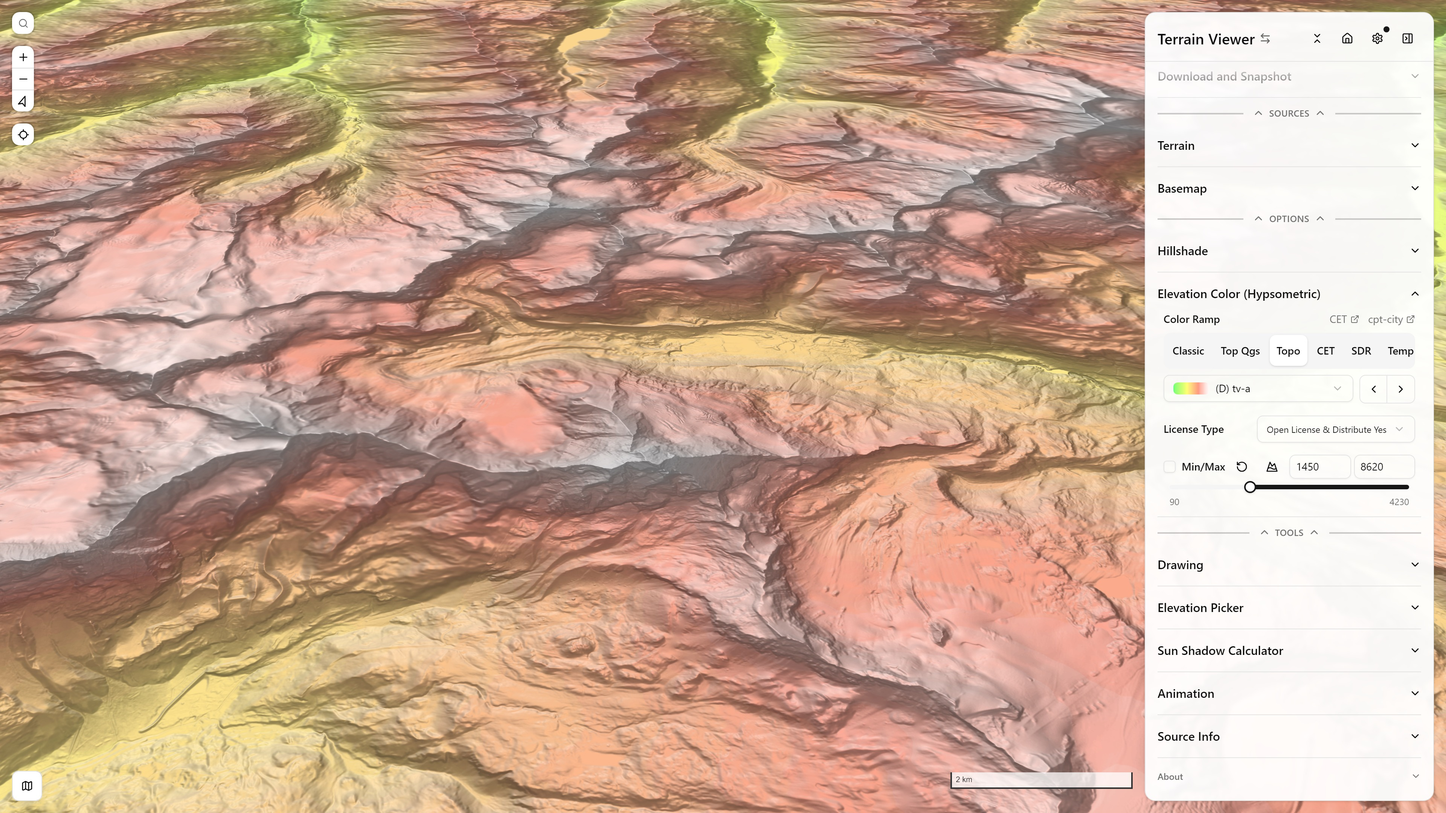
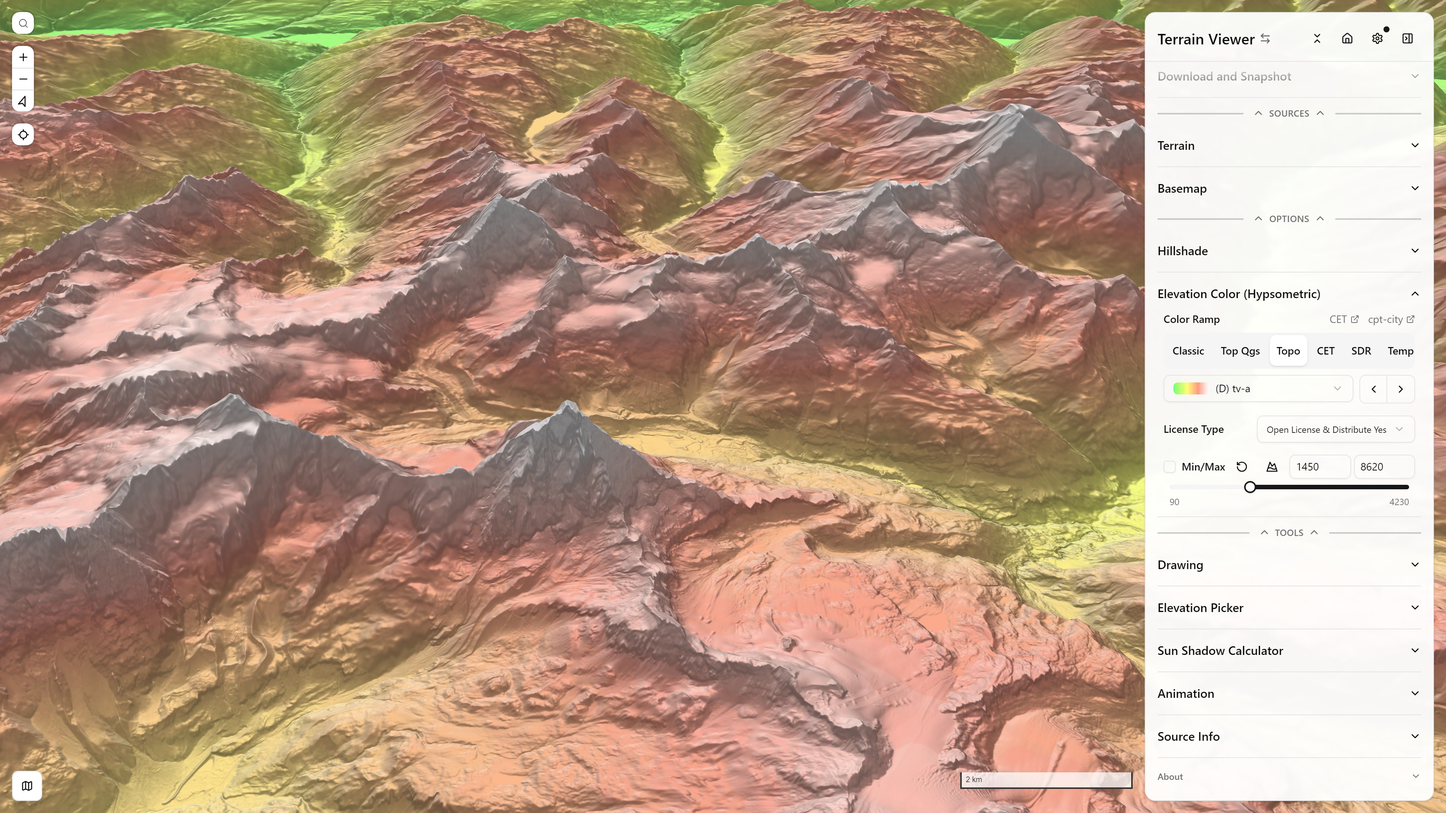
Docs: viz-modes camera-consistency recapture, lightbox truncate fix, walkthrough link update
Recaptured the drifted viz-modes screenshots (hillshade/hypso/svf/phong/matcap) so
they actually match the shared 2D/3D camera their own hrefs already encoded; fixed
the lightbox title bar clipping multi-link captions to a single line (was `truncate`
on the title row, now wraps); pointed the walkthrough page's "open the app with the
tour running" link at the same shared camera the viz-modes screenshots use. Walkthrough,
split-modes, and elevation-picker screenshots were manually redone and verified by the
user this round.

diff --git a/docs/src/components/lightbox.tsx b/docs/src/components/lightbox.tsx
@@ -154,9 +154,9 @@ export function LightboxProvider({ children }: { children: ReactNode }) {
             ✕
           </button>
 
-          <div className="flex h-14 shrink-0 items-center justify-center px-16 pt-2" onClick={stop}>
+          <div className="flex min-h-14 shrink-0 items-center justify-center px-16 py-2" onClick={stop}>
             {current.titleNodes.length > 0 && (
-              <div className="max-w-full truncate text-center text-sm text-white/90">
+              <div className="max-w-full text-center text-sm text-white/90">
                 {current.titleNodes.map((node, i) =>
                   node.href ? (
                     <a

diff --git a/.claude/memory/screenshots-context.md b/.claude/memory/screenshots-context.md
@@ -334,3 +334,99 @@ don't trust anything beyond point 3 above as still-current — check the actual
 `.mdx` files' `href`/`data-lightbox-href` values and `git log` instead; this
 file documents technique and gotchas, not a live snapshot of every screenshot's
 exact state.
+
+9. Viz-modes recapture pass, ROOT-CAUSE of the recurring "hrefs match but
+   captured file looks totally different" mystery, several new Playwright
+   gotchas — **`https://terrain-viewer.iconem.com/` (the URL these captures
+   use) is NOT built from `main`, it's a separate deploy that can lag the
+   `docs-update` branch by several commits.** Confirmed directly: `git
+   merge-base --is-ancestor <commit> origin/main` showed the commit that added
+   `id="tour-lighting-effects-section"` (`e670cd0`, a docs-update-only commit)
+   is **not** an ancestor of `origin/main`, while the commit that added
+   `id="tour-hypso-section"` (`803c224`) **is**. Real-world effect: a
+   `scrollIntoView`-by-id script silently no-ops when the id isn't in prod's
+   DOM yet (my `page.evaluate` returned `null` for `querySelector`, and I'd
+   forgotten to wire up `page.on('console')` so the in-browser `console.warn`
+   was invisible in the Node terminal — always pipe browser console to Node
+   when debugging a silent scroll/click failure). **Fix used: scroll by the
+   Section's own title `<span>` exact-text match, walking up to the nearest
+   ancestor whose className contains `scroll-mt-` (see `Section` in
+   `controls-components.tsx`), instead of the `id`** — this works regardless
+   of whether prod has the id yet. This is almost certainly why past rounds'
+   "I used the same URL, I swear" captures kept coming back showing the wrong
+   sidebar section/scroll position — not a camera problem at all, a silent
+   scroll-target-not-found problem that happened to *also* correlate with
+   camera-looking-wrong reports.
+   - **This same prod/branch-lag issue also breaks the guided-tour step
+     count/order**, independent of the DOM-id issue above: walking the tour
+     step-by-step on prod (via `startTour=true` + repeated `ArrowRight`)
+     landed on completely different step content than the local
+     `product-tour.tsx` source predicts (e.g. local source says step 9 of the
+     terrain branch is "Color by Elevation", but prod's actual step 9 was
+     "Terrain Sources", step 11 was "Bring Your Own Data" — a totally
+     different, shorter/reordered step list). **Do not trust local
+     `product-tour.tsx` array order to predict prod step numbers.** If you
+     need a specific tour step from prod, walk it empirically (advance one
+     step at a time, read the actual title each time) rather than
+     precomputing "N general steps + branch + M terrain steps".
+   - **Seeding `localStorage.hasSeenTour = true` also silently blocks the
+     `?startTour=true` deep link**, even though `product-tour.tsx`'s own code
+     comment says the deep-link effect "fires regardless of `hasSeenTour`".
+     Confirmed empirically (isolated A/B test: identical page+URL, only
+     difference was this one localStorage key, tour opened with it unset/false
+     and never opened with it seeded true) — this looks like a real app bug
+     worth a from-scratch fix, not a capture-script problem. **Workaround:
+     don't seed `hasSeenTour` at all (or seed it explicitly `false`) for any
+     tour-driven capture.**
+   - **Coachmark's `ArrowRight` tour-advance keyboard shortcut occasionally
+     drops or double-fires a press** — confirmed via a press-by-press log
+     (6 sequential `ArrowRight` presses with 1.8-2s gaps only advanced the
+     step counter 4 times in one run). A fixed "press N times" script is not
+     reliable. **Fix: loop pressing one at a time, checking the actual
+     visible step/title text after each press, until the target is reached
+     (cap the loop, don't spin forever).**
+   - **Phong's raster-basemap-blended render can get stuck with several
+     tile-sized patches showing a lighter/less-shaded, not-fully-composited
+     appearance**, similar in spirit to the SVF stuck-compute gotcha above
+     but for the Phong "2D Fast" shader path specifically — confirmed it is a
+     genuine timing race, not permanent basemap-mosaic seams: two separate
+     long-plain-wait attempts (70s, then 90s+45s=135s) reproduced very
+     similar-but-not-identical patch layouts, and neither wait length alone
+     resolved it. **What actually fixed it: a `page.mouse.wheel` zoom-out
+     then zoom-in "nudge" partway through the wait** (45s wait → nudge → 45s
+     wait → nudge → 45s wait → screenshot) — after that the render was fully,
+     evenly shaded with zero patches. Same nudge trick as the stuck-tour-step
+     gotcha elsewhere in this file, now confirmed useful for a non-tour,
+     plain-URL capture too.
+   - **Don't assume a "quilted"/non-uniform raster-basemap appearance is
+     real source-mosaic data without testing in isolation** — I initially
+     misdiagnosed the Phong patches above as genuine ESRI-style mosaic
+     seams because they looked visually plausible and didn't obviously
+     change between two wait lengths; a wheel-nudge later proved that wrong.
+     Conversely, for **AWS Terrarium** specifically, a fine uniform
+     scanline/moiré hillshade texture (looks like a subtle grid hatching
+     across the whole terrain) reproduced **pixel-identically** across two
+     very different capture treatments (plain 90s wait vs. 55s+nudge+55s+
+     nudge+drag) AND in a totally isolated single-source (no split, no
+     overlay) capture — that level of exact reproducibility across different
+     code paths is what actually confirms "real source data", not just "it
+     looked stable once". When in doubt, isolate the suspect layer alone
+     (drop every other layer/source) and compare.
+   - Session ended with **three item groups (walkthrough screenshots,
+     split-modes screenshots, elevation-picker screenshot) explicitly taken
+     back over by the user mid-session** to redo manually. The controlling
+     agent was told to stop touching those files, but its background task was
+     killed (`TaskStop`) before it finished acting on that — it had NOT
+     actually reverted anything via `git checkout --` (despite an earlier,
+     inaccurate draft of this note claiming it had); `git status` right after
+     the kill still showed all of those files as modified. The user then
+     personally reviewed the final on-disk state of every affected file
+     (both their own manual recaptures and whatever the agent had last
+     written) and confirmed it was correct before committing — so the
+     committed result is user-verified, but be aware the "taken back over"
+     files may be a mix of user and agent output rather than purely one or
+     the other. See `handoff-docs-update.md` for the exact current
+     disposition. **Lesson: a background agent's own claim of having cleaned
+     up/reverted something is not reliable if the task was killed
+     mid-sentence — verify against `git status`/mtimes rather than trusting
+     the agent's last written note.**

diff --git a/.claude/memory/handoff-docs-update.md b/.claude/memory/handoff-docs-update.md
@@ -9,7 +9,9 @@ Written for a hand-off to a fresh agent instance (new T3 session or otherwise) c
 
 ## Where things stand
 
-As of commit `15452a9` (pushed to `origin/docs-update`, working tree clean), every screenshot/content request from the user across this entire multi-session docs effort has been addressed — see `screenshots-context.md`'s "History" section for the full commit-by-commit log, and the two full chronological audits given directly to the user earlier in this session (one covering the whole day back to the morning) confirmed everything resolved except the items below.
+As of the commit following `397fe6e` (this file's update), a follow-up round fixed: the lightbox title-bar `truncate` CSS bug (was clipping multi-link captions — see `docs/src/components/lightbox.tsx`, the `min-h-14`/no-`truncate` title row), the walkthrough page's top "open the app with the tour running ↗" link (now carries the shared viz-modes camera as URL params), and a batch of viz-modes screenshot recaptures (`hillshade.jpg`, `hypso.jpg`, `svf.jpg`, `phong.jpg`, `matcap.jpg` — root cause of their drift was never fully confirmed; captured files just didn't match their own already-correct `.mdx` hrefs, see `screenshots-context.md`'s history entry for this round). Mid-session the user took walkthrough screenshots, split-modes screenshots (Overlay/Off/Side-terrain), and the elevation-picker screenshot back over to redo manually — the background agent doing that work was killed (`TaskStop`) before finishing, and the user then personally verified the final on-disk state of every affected file before committing. Treat this file's older claims below (anchored to `15452a9`) as still generally accurate for everything NOT touched in this round; see `screenshots-context.md` for the newer gotchas (SVF/Phong tile-load timing fixes via wheel-nudge, prod tour step-order not matching local source, `hasSeenTour` blocking `startTour=true`).
+
+Below this line is the PRIOR state as of commit `15452a9` (pushed to `origin/docs-update`, working tree clean at that point) — every screenshot/content request from the user across that entire multi-session docs effort had been addressed — see `screenshots-context.md`'s "History" section for the full commit-by-commit log, and the two full chronological audits given directly to the user earlier in that session (one covering the whole day back to the morning) confirmed everything resolved except the items below.
 
 **If the user references something as "still broken" that isn't in the list below, don't assume it's new — re-check the actual current file/screenshot first.** This session had several rounds of "I already fixed that" turning out to be real regressions (e.g. the lightbox link-clamping bug, the Overlay flat-2D AWS pane) — always verify against the live file rather than trusting a prior turn's "done" claim at face value.
 
